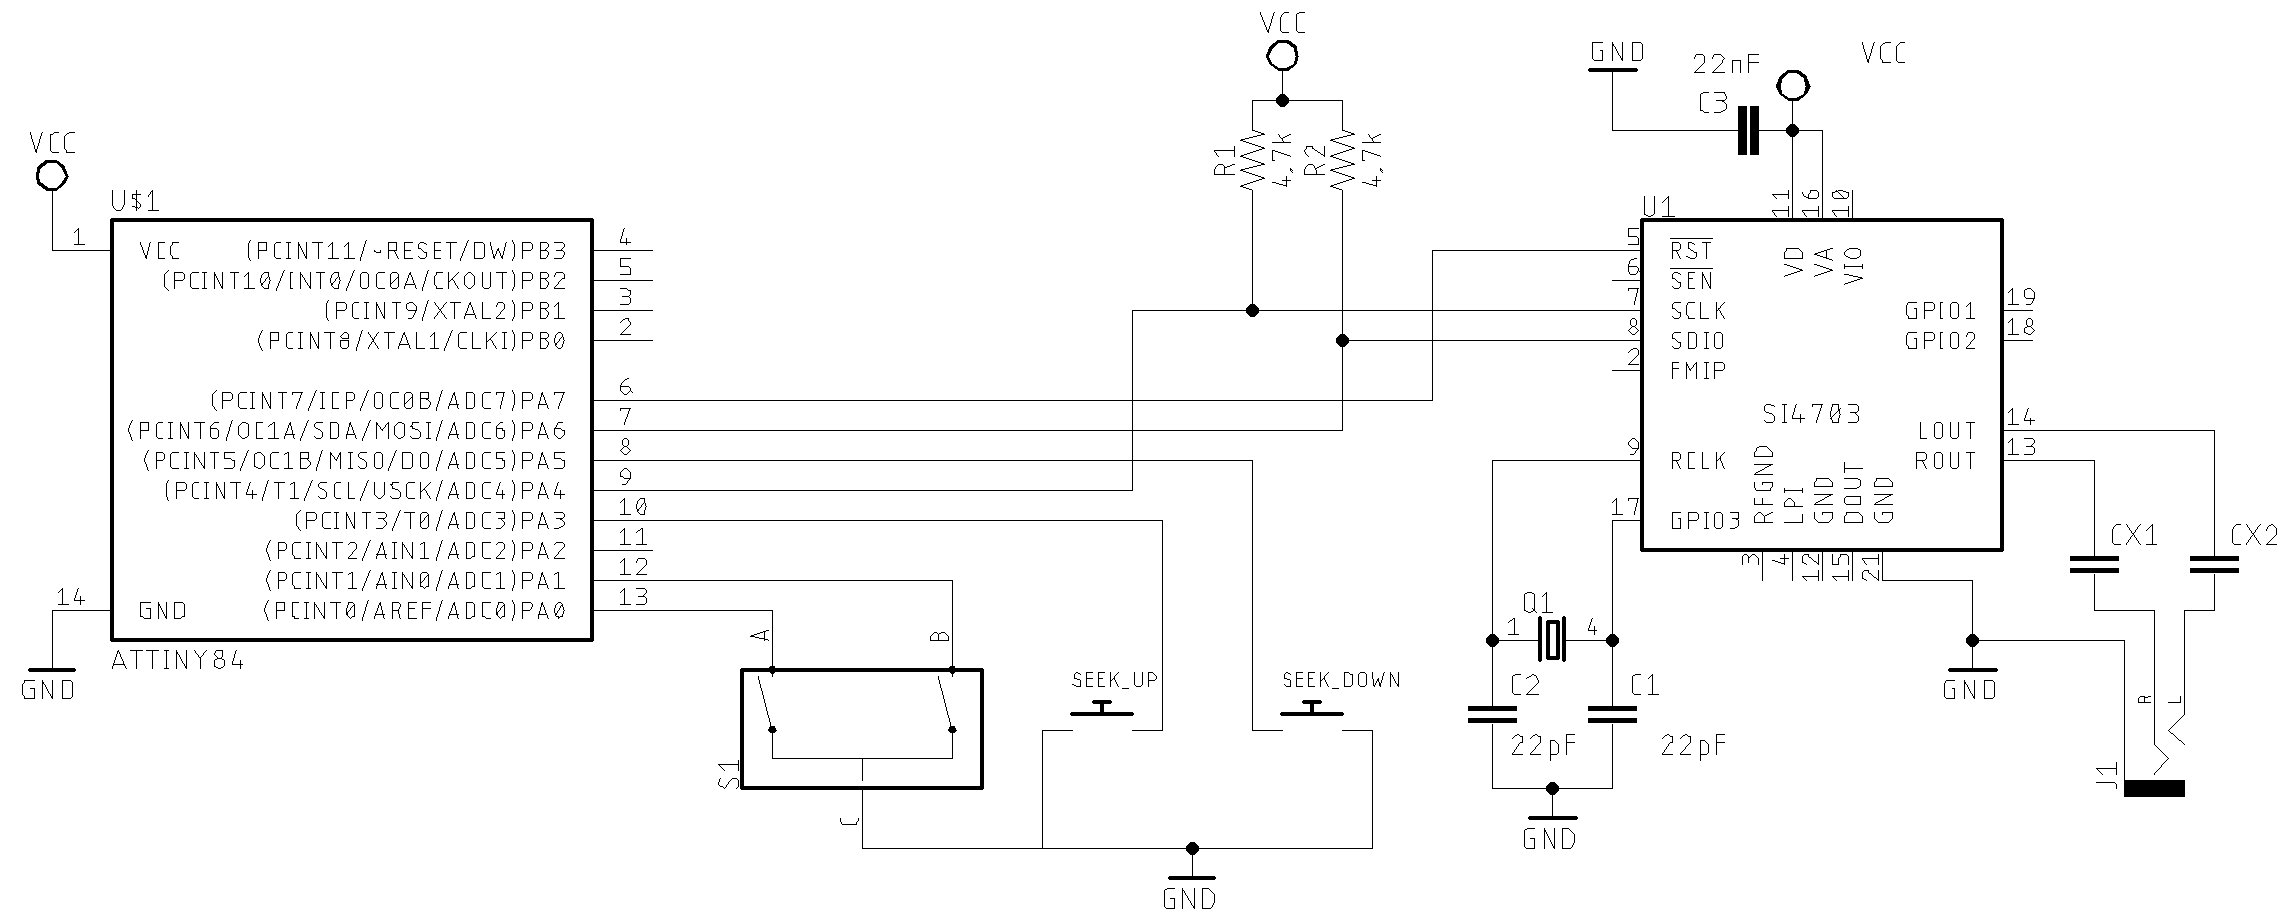
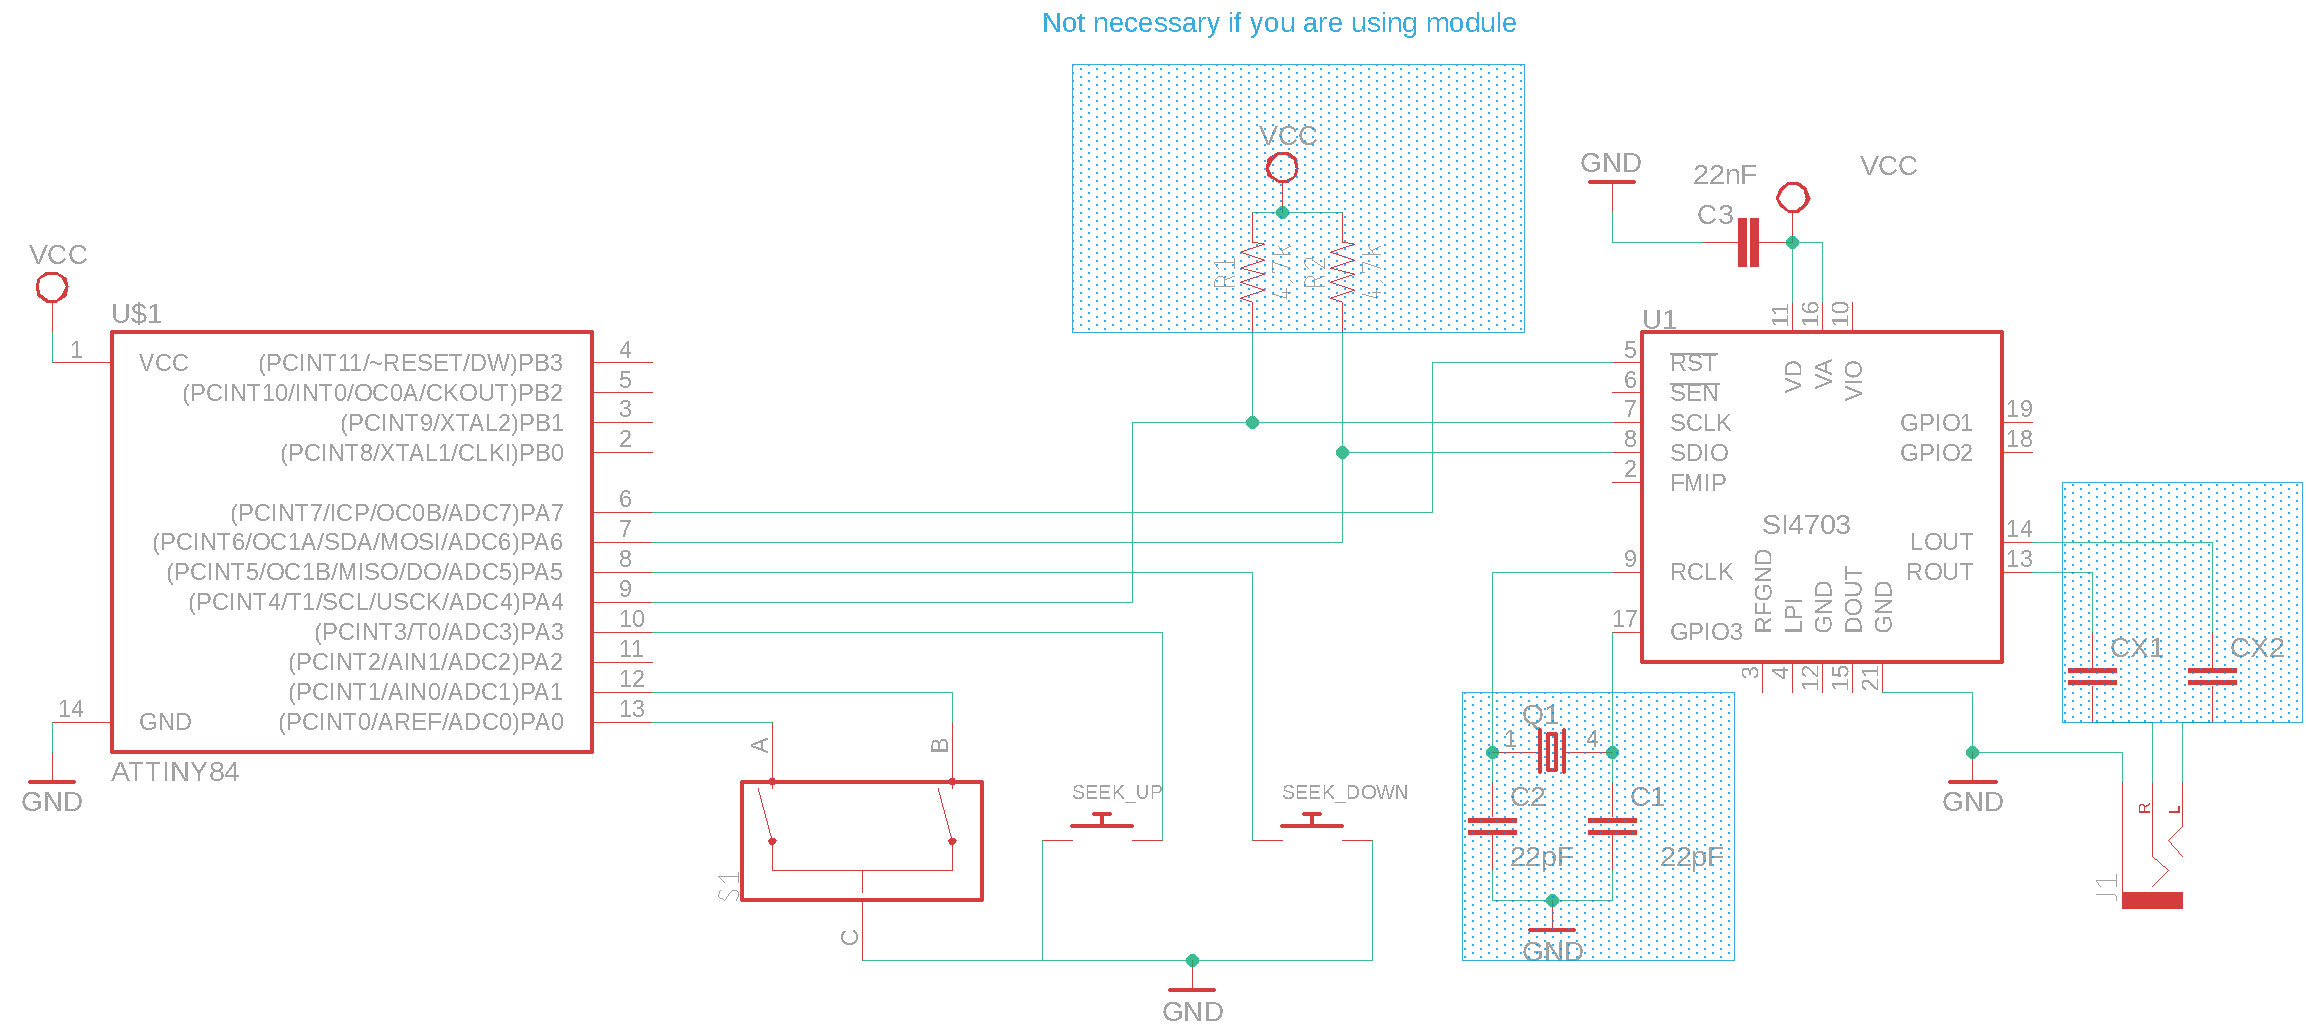
SI470X Arduino Library

diff --git a/examples/SI470X_04_ATTINY_84_85/README.md b/examples/SI470X_04_ATTINY_84_85/README.md
@@ -38,6 +38,10 @@ The table below shows the pin functions of the ATTiny84 and ATTiny85  needed to 
 ![ATTiny84 pinout](../../extras/images/attiny84.png)
 
 
+### ATTiny84 schematic
+
+![ATTiny84 schematic](../../extras/images/circuit_attiny84.png)
+
 
 ## ATTiny85 and SI4703 wireup  
 
@@ -51,8 +55,14 @@ The table below shows the pin functions of the ATTiny84 and ATTiny85  needed to 
    
 <BR>
 
-#### ATTiny85 pinout
+## ATTiny85 pinout
 
 ![Schematic - ATTiny85 pinout](../../extras/images/attiny85_pinout.jpg)
+
+
+
+## ATTiny85 schematic
+
+![ATTiny85 schematic](../../extras/images/circuit_attiny85.png)
 
 
